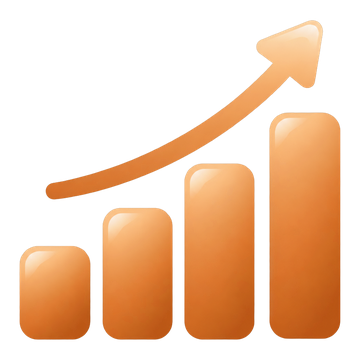
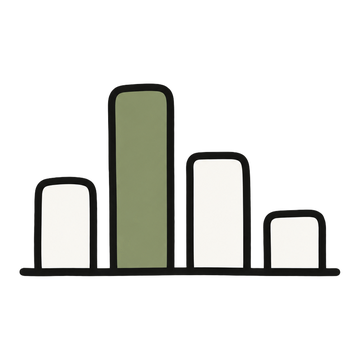
Module artwork: flat hand-drawn style instead of 3D
Regenerated the ten module icons in the "luria-minimal-cover" look: thick
rounded near-black outlines, warm off-white flat fills, a single sage-green
accent, no shading or gradients, transparent background. gen_module_icons.py
now sends a reference picture to images/edits as a STYLE ONLY example and
keys out a flat background if the model returns an opaque canvas. Hover no
longer casts a tinted shadow; title/path use the site accent.

diff --git a/src/styles.css b/src/styles.css
@@ -1519,15 +1519,14 @@ section.band.band-cta .btn-ghost:hover { border-color: #fff; background: rgba(25
 }
 .module-art {
   display: block;
-  width: 96px; height: 96px;
-  margin: 0 0 10px -4px;
-  transition: transform 0.22s cubic-bezier(.2,.7,.2,1), filter 0.22s;
-  filter: drop-shadow(0 8px 14px color-mix(in srgb, var(--mc) 22%, transparent));
+  width: 92px; height: 92px;
+  margin: 0 0 12px -2px;
+  transition: transform 0.22s cubic-bezier(.2,.7,.2,1);
 }
 .module-art img { width: 100%; height: 100%; display: block; object-fit: contain; }
-.module-tile:hover .module-art { transform: translateY(-4px) scale(1.04); filter: drop-shadow(0 14px 22px color-mix(in srgb, var(--mc) 30%, transparent)); }
+.module-tile:hover .module-art { transform: translateY(-4px) rotate(-2deg); }
 .module-name { font-size: 15.5px; font-weight: 600; color: var(--ink); letter-spacing: -0.01em; transition: color 0.16s; }
-.module-tile:hover .module-name { color: var(--mc); }
+.module-tile:hover .module-name { color: var(--accent); }
 .module-desc { font-size: 12.5px; line-height: 1.45; color: var(--muted); }
 .module-path {
   margin-top: 6px;
@@ -1536,7 +1535,7 @@ section.band.band-cta .btn-ghost:hover { border-color: #fff; background: rgba(25
   transition: color 0.16s;
 }
 .module-path::before { content: "›"; margin-right: 5px; color: var(--line-strong); }
-.module-tile:hover .module-path { color: var(--mc); }
+.module-tile:hover .module-path { color: var(--accent); }
 @media (max-width: 1080px) { .module-grid { grid-template-columns: repeat(3, minmax(0, 1fr)); gap: 30px 20px; } }
 @media (max-width: 760px) {
   .module-grid { grid-template-columns: repeat(2, minmax(0, 1fr)); gap: 24px 16px; }

diff --git a/scripts/gen_module_icons.py b/scripts/gen_module_icons.py
@@ -1,24 +1,35 @@
 #!/usr/bin/env python3
 """Generate the transparent module icons in src/assets/modules/ with OpenAI's image API.
 
-    OPENAI_API_KEY=... python3 scripts/gen_module_icons.py --model gpt-image-2.5-sunburst
+    OPENAI_API_KEY=... python3 scripts/gen_module_icons.py --style-ref path/to/reference.png
     OPENAI_API_KEY=... python3 scripts/gen_module_icons.py --only single,space   # regenerate a few
 
-The key is read from the environment only; never put it in the repo.
-Each icon is requested as a 1024x1024 PNG with a transparent background,
-trimmed to its opaque bounds and downscaled to --size (default 360 px).
+Style: flat, minimal, hand-drawn marker illustration (thick rounded near-black
+outlines, warm off-white fills, one flat sage-green accent), no 3D, no
+gradients, no text — the "luria-minimal-cover" look, but isolated on a
+transparent background so the artwork sits straight on the page.
+
+With --style-ref the reference picture is sent to the images/edits endpoint as
+a STYLE ONLY example; without it, images/generations is used. Either way the
+key is read from the environment only; never put it in the repo. Each icon is
+requested at 1024x1024 with a transparent background; if the model returns an
+opaque canvas, the flat background colour is keyed out. The result is trimmed
+to its opaque bounds and downscaled to --size (default 360 px).
 """
 
 from __future__ import annotations
 
 import argparse
 import base64
+import io
 import json
+import mimetypes
 import os
 import sys
 import time
 import urllib.error
 import urllib.request
+import uuid
 from pathlib import Path
 
 from PIL import Image
@@ -27,47 +38,51 @@ ROOT = Path(__file__).resolve().parents[1]
 OUT = ROOT / "src" / "assets" / "modules"
 
 STYLE = (
-    "A single flat vector icon in a modern minimal style with subtle depth: smooth two-tone gradients, "
-    "soft rounded geometry, no outlines, no text, no labels, no background shapes, no frame, no shadow on the "
-    "ground. Centered, filling about 70% of the canvas, generous empty margin. Isolated on a fully transparent "
-    "background. Palette: {color} as the main hue with a lighter tint of the same hue, plus small cream "
-    "(#fbfaf6) highlights. Consistent with a matching icon family for a bioinformatics software website."
+    "Flat minimalist scientific editorial illustration in a hand-drawn marker style: thick, rounded, slightly "
+    "irregular near-black (#141512) outlines; flat warm off-white (#FAF9F3) fills; exactly one flat accent colour, "
+    "muted sage green (#858F69), used for a few fills; no other colours. Confident spare marker strokes, not "
+    "polished stock-vector art. Absolutely no 3D, shading, gradients, glow, glass, shadows, paper texture, "
+    "grain or decorative scenery. No text in any language, no letters, numbers, labels, logos or watermarks. "
+    "One compact object centered, filling about 65% of the canvas with generous empty margin, isolated on a "
+    "fully transparent background (no background shape, no card, no circle behind it). Part of a matching "
+    "icon family for a bioinformatics software website."
 )
 
 MODULES = {
-    "align":   ("#2f8f45", "a stylised DNA double helix with a few nucleotide bars, slightly tilted"),
-    "pp":      ("#1f7a36", "a funnel filtering scattered dots into a clean ordered stream below it"),
-    "single":  ("#345aa8", "a cluster of round cells of different sizes, like a UMAP scatter, with a few connecting arcs"),
-    "space":   ("#8848a4", "a tissue slice seen from above, a rounded organic shape tiled with small hexagonal spots in two shades"),
-    "bulk":    ("#d9712b", "a bar chart of four rounded bars rising left to right with a small trend arrow"),
-    "fm":      ("#347ec4", "a neural network node graph: a few connected glowing nodes forming a small brain-like shape"),
-    "mol":     ("#2d7a4b", "a 3D molecule: five spheres connected by short rods, ball-and-stick model"),
-    "epi":     ("#34418f", "a chromatin fiber: a smooth wavy strand wrapped around three round nucleosome beads"),
-    "micro":   ("#d73986", "a petri dish seen from above with a few rod-shaped and round microbes inside"),
-    "metabol": ("#7f48a6", "a conical laboratory flask with liquid and two rising bubbles, next to a tiny hexagon"),
+    "align":   "a short DNA double helix drawn as two twisted ribbons with a few transverse rungs",
+    "pp":      "a funnel with loose dots entering at the top and a neat single row of dots leaving at the bottom",
+    "single":  "a loose cluster of round cells of different sizes, like a UMAP scatter: a few off-white, a few sage green, two touching",
+    "space":   "a rounded organic tissue-slice outline tiled inside with a handful of hexagonal spots, some filled sage green",
+    "bulk":    "a simple bar chart: four rounded bars of different heights on a baseline, the tallest filled sage green",
+    "fm":      "a small network graph of six round nodes joined by short lines forming a rough brain-like outline; two nodes filled sage green",
+    "mol":     "a ball-and-stick molecule: five round atoms connected by short rods, one central atom larger and sage green",
+    "epi":     "a chromatin fiber: one smooth wavy strand wrapped around three round nucleosome beads, the beads off-white",
+    "micro":   "a petri dish seen from above: a circle outline with a few rod-shaped and round microbes inside, some sage green",
+    "metabol": "a conical laboratory flask with liquid drawn as a flat sage-green area and two small round bubbles above it",
 }
 
 
-def request_image(model: str, prompt: str, size: str, quality: str, key: str) -> bytes:
-    body = {
-        "model": model,
-        "prompt": prompt,
-        "n": 1,
-        "size": size,
-        "background": "transparent",
-        "output_format": "png",
-        "quality": quality,
-    }
-    req = urllib.request.Request(
-        "https://api.openai.com/v1/images/generations",
-        data=json.dumps(body).encode(),
-        headers={"Authorization": f"Bearer {key}", "Content-Type": "application/json"},
-    )
+def _multipart(fields: dict, files: list[tuple[str, Path]]) -> tuple[bytes, str]:
+    boundary = f"----omicverse{uuid.uuid4().hex}"
+    out = io.BytesIO()
+    for k, v in fields.items():
+        out.write(f"--{boundary}\r\nContent-Disposition: form-data; name=\"{k}\"\r\n\r\n{v}\r\n".encode())
+    for field, path in files:
+        ctype = mimetypes.guess_type(path.name)[0] or "application/octet-stream"
+        out.write(f"--{boundary}\r\nContent-Disposition: form-data; name=\"{field}\"; filename=\"{path.name}\"\r\n"
+                  f"Content-Type: {ctype}\r\n\r\n".encode())
+        out.write(path.read_bytes())
+        out.write(b"\r\n")
+    out.write(f"--{boundary}--\r\n".encode())
+    return out.getvalue(), boundary
+
+
+def _post(url: str, key: str, data: bytes, content_type: str) -> dict:
+    req = urllib.request.Request(url, data=data, headers={"Authorization": f"Bearer {key}", "Content-Type": content_type})
     for attempt in range(3):
         try:
-            with urllib.request.urlopen(req, timeout=180) as resp:
-                data = json.loads(resp.read().decode())
-            return base64.b64decode(data["data"][0]["b64_json"])
+            with urllib.request.urlopen(req, timeout=240) as resp:
+                return json.loads(resp.read().decode())
         except urllib.error.HTTPError as e:
             msg = e.read().decode(errors="replace")[:400]
             if e.code in (429, 500, 502, 503) and attempt < 2:
@@ -77,10 +92,42 @@ def request_image(model: str, prompt: str, size: str, quality: str, key: str) ->
     raise RuntimeError("unreachable")
 
 
-def postprocess(png: bytes, size: int) -> Image.Image:
-    im = Image.open(__import__("io").BytesIO(png)).convert("RGBA")
+def request_image(model: str, prompt: str, quality: str, key: str, style_ref: Path | None) -> bytes:
+    if style_ref:
+        fields = {"model": model, "prompt": prompt, "n": "1", "size": "1024x1024",
+                  "background": "transparent", "output_format": "png", "quality": quality}
+        body, boundary = _multipart(fields, [("image[]", style_ref)])
+        data = _post("https://api.openai.com/v1/images/edits", key, body, f"multipart/form-data; boundary={boundary}")
+    else:
+        body = json.dumps({"model": model, "prompt": prompt, "n": 1, "size": "1024x1024",
+                           "background": "transparent", "output_format": "png", "quality": quality}).encode()
+        data = _post("https://api.openai.com/v1/images/generations", key, body, "application/json")
+    return base64.b64decode(data["data"][0]["b64_json"])
+
+
+def key_out_background(im: Image.Image) -> Image.Image:
+    """If the model ignored `background: transparent`, make the flat background colour transparent."""
     alpha = im.getchannel("A")
-    bbox = alpha.point(lambda a: 255 if a > 8 else 0).getbbox()
+    if alpha.getextrema()[0] < 250:  # already has transparency
+        return im
+    px = im.load()
+    w, h = im.size
+    corners = [px[0, 0], px[w - 1, 0], px[0, h - 1], px[w - 1, h - 1]]
+    bg = tuple(sum(c[i] for c in corners) // 4 for i in range(3))
+    out = Image.new("RGBA", im.size)
+    opx = out.load()
+    for y in range(h):
+        for x in range(w):
+            r, g, b, _ = px[x, y]
+            d = max(abs(r - bg[0]), abs(g - bg[1]), abs(b - bg[2]))
+            a = 0 if d < 18 else (255 if d > 60 else int(255 * (d - 18) / 42))
+            opx[x, y] = (r, g, b, a)
+    return out
+
+
+def postprocess(png: bytes, size: int) -> Image.Image:
+    im = key_out_background(Image.open(io.BytesIO(png)).convert("RGBA"))
+    bbox = im.getchannel("A").point(lambda a: 255 if a > 8 else 0).getbbox()
     if bbox:
         im = im.crop(bbox)
     w, h = im.size
@@ -97,6 +144,7 @@ def main() -> int:
     ap.add_argument("--quality", default="medium")
     ap.add_argument("--size", type=int, default=360, help="output edge length in px")
     ap.add_argument("--only", default=None, help="comma-separated module keys")
+    ap.add_argument("--style-ref", type=Path, default=None, help="reference picture sent as STYLE ONLY example")
     ap.add_argument("--raw-dir", type=Path, default=None, help="also keep the untouched 1024px PNGs here")
     args = ap.parse_args()
 
@@ -109,10 +157,11 @@ def main() -> int:
     if args.raw_dir:
         args.raw_dir.mkdir(parents=True, exist_ok=True)
     for k in keys:
-        color, subject = MODULES[k]
-        prompt = f"{subject}. " + STYLE.format(color=color)
+        subject = MODULES[k]
+        prompt = (("Use the attached image for STYLE ONLY (line weight, flat fills, palette, restraint); do not copy "
+                   "any of its objects. ") if args.style_ref else "") + f"Draw {subject}. " + STYLE
         t0 = time.time()
-        png = request_image(args.model, prompt, "1024x1024", args.quality, key)
+        png = request_image(args.model, prompt, args.quality, key, args.style_ref)
         if args.raw_dir:
             (args.raw_dir / f"{k}.png").write_bytes(png)
         im = postprocess(png, args.size)
